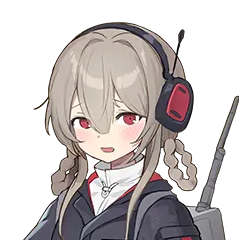
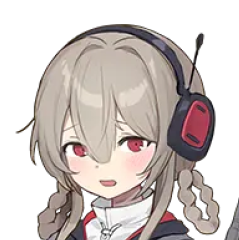
partner-data.js 구문 오류 재수정 및 신규 파트너 6명 추가
- 캐로티 항목 description의 이스케이프 안 된 작은따옴표(') 재발 수정
  — 이전 수정이 되돌아가면서 SyntaxError로 PARTNER_DATA 전체가
  로드되지 않던 문제
- 엘로이즈, 더글라스, 나키아, 라이델, 유리, 사테라 파트너 데이터 및
  자산 커밋
- 기존 파트너 _A 아이콘 이미지 교체본 반영

diff --git a/partner/partner-data.js b/partner/partner-data.js
@@ -214,4 +214,100 @@ window.PARTNER_DATA = [
     ego_tooltip: '1턴간 담당 전투원의 능력으로 생성한 카드의 피해량 20% 증가',
     ego_media: 'partner/아르웬_D.webp',
   },
+  {
+    id: 'eloise',
+    name: '엘로이즈',
+    job: 'psionic',
+    grade: 4,
+    illust: 'partner/엘로이즈_B.png',
+    icon: 'partner/엘로이즈_A.webp',
+    tagline: '테라시온 기술팀 팀장',
+    description: '중앙기술 지원부 소속으로함내 시설, 장치 및 장비 전반의\n정비 검수 등을 맡고 있다. 감정을 잘 표현하지 않기 때문에\n차가운 인상으로 보인다. 함장을 우상처럼 숭배하지만\n업무적인 관계를 유지하려 노력 중이다.',
+    passive: '기술 지원',
+    passive_tooltip: '담당 전투원의 공격력이 8/10/12/14/16% 증가합니다.\n담당 전투원의 공격 카드 피해량이 10/13/15/18/20% 증가합니다.\n담당 전투원이 처음으로 카드를 소멸하거나, 상태이상(상태이상에서 변경된 카드 포함) 카드를 획득하면 1턴간 공격 카드의 피해량이 12/15/18/21/24% 증가합니다.',
+    ego: '방어 모듈 가동',
+    ego_point: 3,
+    ego_tooltip: '1턴간 카드 소멸 시 무작위 적 약화 1',
+    ego_media: 'partner/엘로이즈_D.webp',
+  },
+  {
+    id: 'douglas',
+    name: '더글라스',
+    job: 'striker',
+    grade: 3,
+    illust: 'partner/더글라스_B.png',
+    icon: 'partner/더글라스_A.webp',
+    tagline: '아쥬르 상단의 경호원',
+    description: '거대한 바주카포를 들고서 후방에서 화력을 맡고 있다.\n본래는 캐러밴 방주의 무기상의 아들로, 무기 상회를\n물려받을 수 있었으나 스스로 상인과는 맞지 않는다고\n생각하여 캐러밴 방주의 경호 부대에 지원하게 되었다.',
+    passive: '경호',
+    passive_tooltip: '담당 전투원의 공격력이 8/10/12/14/16% 증가합니다.\n전투 시작 시 1턴간 담당 전투원이 주는 피해량이 8/10/12/14/16% 증가합니다.',
+    ego: '거대 바주카포',
+    ego_point: 2,
+    ego_tooltip: '모든 적 피해 120%',
+    ego_media: 'partner/더글라스_D.webp',
+  },
+  {
+    id: 'nakia',
+    name: '나키아',
+    job: 'ranger',
+    grade: 3,
+    illust: 'partner/나키아_B.png',
+    icon: 'partner/나키아_A.webp',
+    tagline: '아쥬르의 열혈 군인',
+    description: '현재는 용병으로 활동하고 있지만, 여전히 군인으로서의\n정체성을 갖고 활동하고 있다. 정의와, 자신의 신념을\n관철할 수 있다면 어디서든 싸울 수 있다고 말한다.\n실제로도 자신의 신념을 지키기 위해 노력한다.',
+    passive: '열혈 군인',
+    passive_tooltip: '담당 전투원의 공격력이 8/10/12/14/16% 증가합니다.\n아군이 적 처치 시 [후방 지원]을 획득합니다.\n[후방 지원] : 공격 카드 피해량 +10/13/15/18/20%',
+    ego: '강력한 한 발',
+    ego_point: 2,
+    ego_tooltip: '피해 200%',
+    ego_media: 'partner/나키아_D.webp',
+  },
+  {
+    id: 'raidel',
+    name: '라이델',
+    job: 'vanguard',
+    grade: 3,
+    illust: 'partner/라이델_B.png',
+    icon: 'partner/라이델_A.webp',
+    tagline: '아쥬르 상단의 전략 분석관',
+    description: '캐러밴 방주의 경호 부대 소속으로, 본래는 전투원이었다.\n전투원 시절부터 근육 운동을 좋아하여 여러 사람들에게\n근육 훈련을 권하고 있다. 전략 분석관이 된 이후, 머리를 쓰기\n위해서는 운동이 필수라고 주장하지만 진위는 알 수 없다.',
+    passive: '전략 분석',
+    passive_tooltip: '담당 전투원의 체력이 8/10/12/14/16% 증가합니다.\n담당 전투원이 반격 상태라면 방어 기반 피해량이 8/10/12/14/16% 증가합니다.',
+    ego: '약점 분석',
+    ego_point: 2,
+    ego_tooltip: '실드 100%\n반격 1',
+    ego_media: 'partner/라이델_D.webp',
+  },
+  {
+    id: 'yuri',
+    name: '유리',
+    job: 'hunter',
+    grade: 3,
+    illust: 'partner/유리_B.png',
+    icon: 'partner/유리_A.webp',
+    tagline: '블랙 스피카의 악동',
+    description: '공학적 재능만은 출중하나, 자신의 능력을 장난이나 함정을\n파는 데에 주로 사용해 실질적인 성과는 많지 않다.\n공학적 윤리관이 없고, 자신의 능력으로\n할 수 있다면 그게 무엇이건 한다.',
+    passive: '잔기술',
+    passive_tooltip: '담당 전투원의 공격력이 8/10/12/14/16% 증가합니다.\n처음 셔플 시 담당 전투원이 주는 피해량이 8/10/12/14/16% 증가합니다.',
+    ego: '드론 출격!',
+    ego_point: 2,
+    ego_tooltip: '드로우 2',
+    ego_media: 'partner/유리_D.webp',
+  },
+  {
+    id: 'zatera',
+    name: '사테라',
+    job: 'psionic',
+    grade: 3,
+    illust: 'partner/사테라_B.png',
+    icon: 'partner/사테라_A.webp',
+    tagline: '아쥬르 상단의 샤먼',
+    description: '캐러밴 방주 내에서 작은 사원을 운영하면서\n각종 악귀들을 물리치거나, 점괘나 궁합을 봐주거나,\n여러 상황에 유용한 부적 및 소품들을 판매하고 있다.\n미래를 볼 수는 없지만 운의 흐름을 느낄 수 있다고 한다.',
+    passive: '점괘',
+    passive_tooltip: '담당 전투원의 공격력이 8/10/12/14/16% 증가합니다.\n체력이 30% 미만인 상태에서 전투 종료 시 체력을 4/5/6/7/8% 회복합니다.',
+    ego: '기억의 꽃',
+    ego_point: 2,
+    ego_tooltip: '실드 200%',
+    ego_media: 'partner/사테라_D.webp',
+  }
 ];
